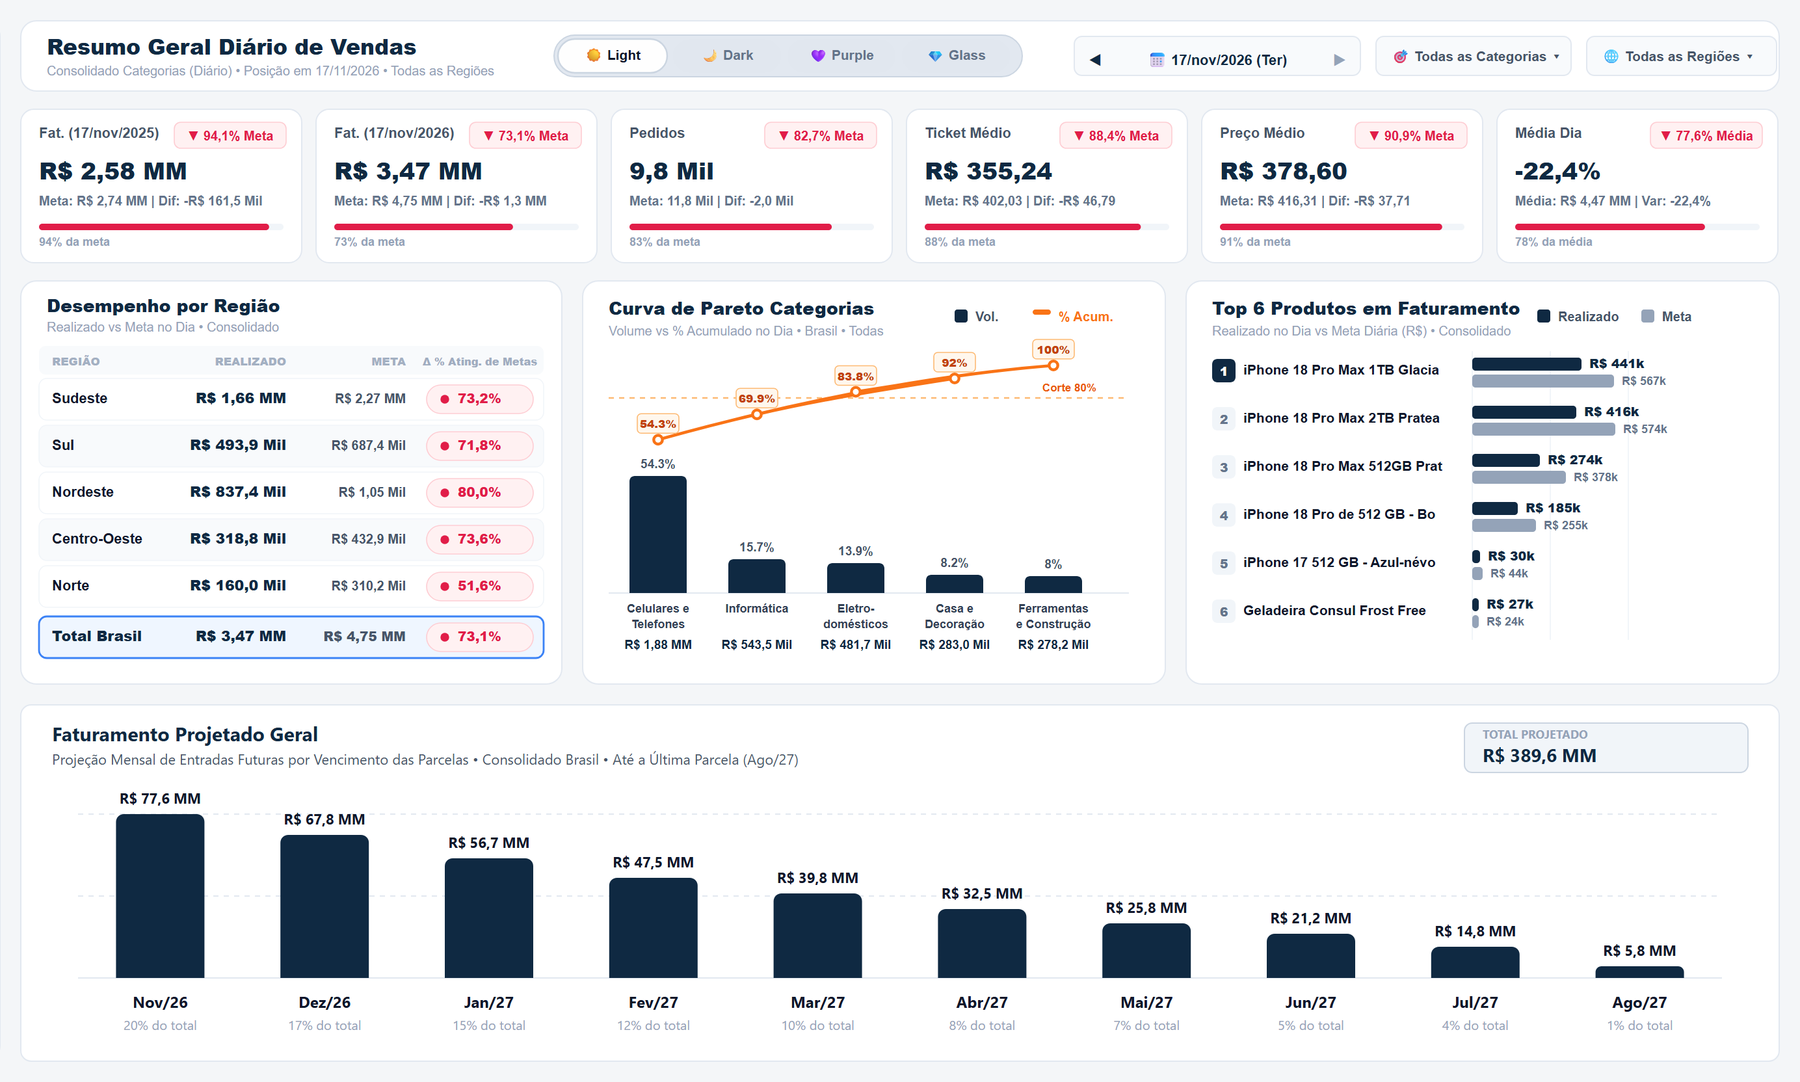
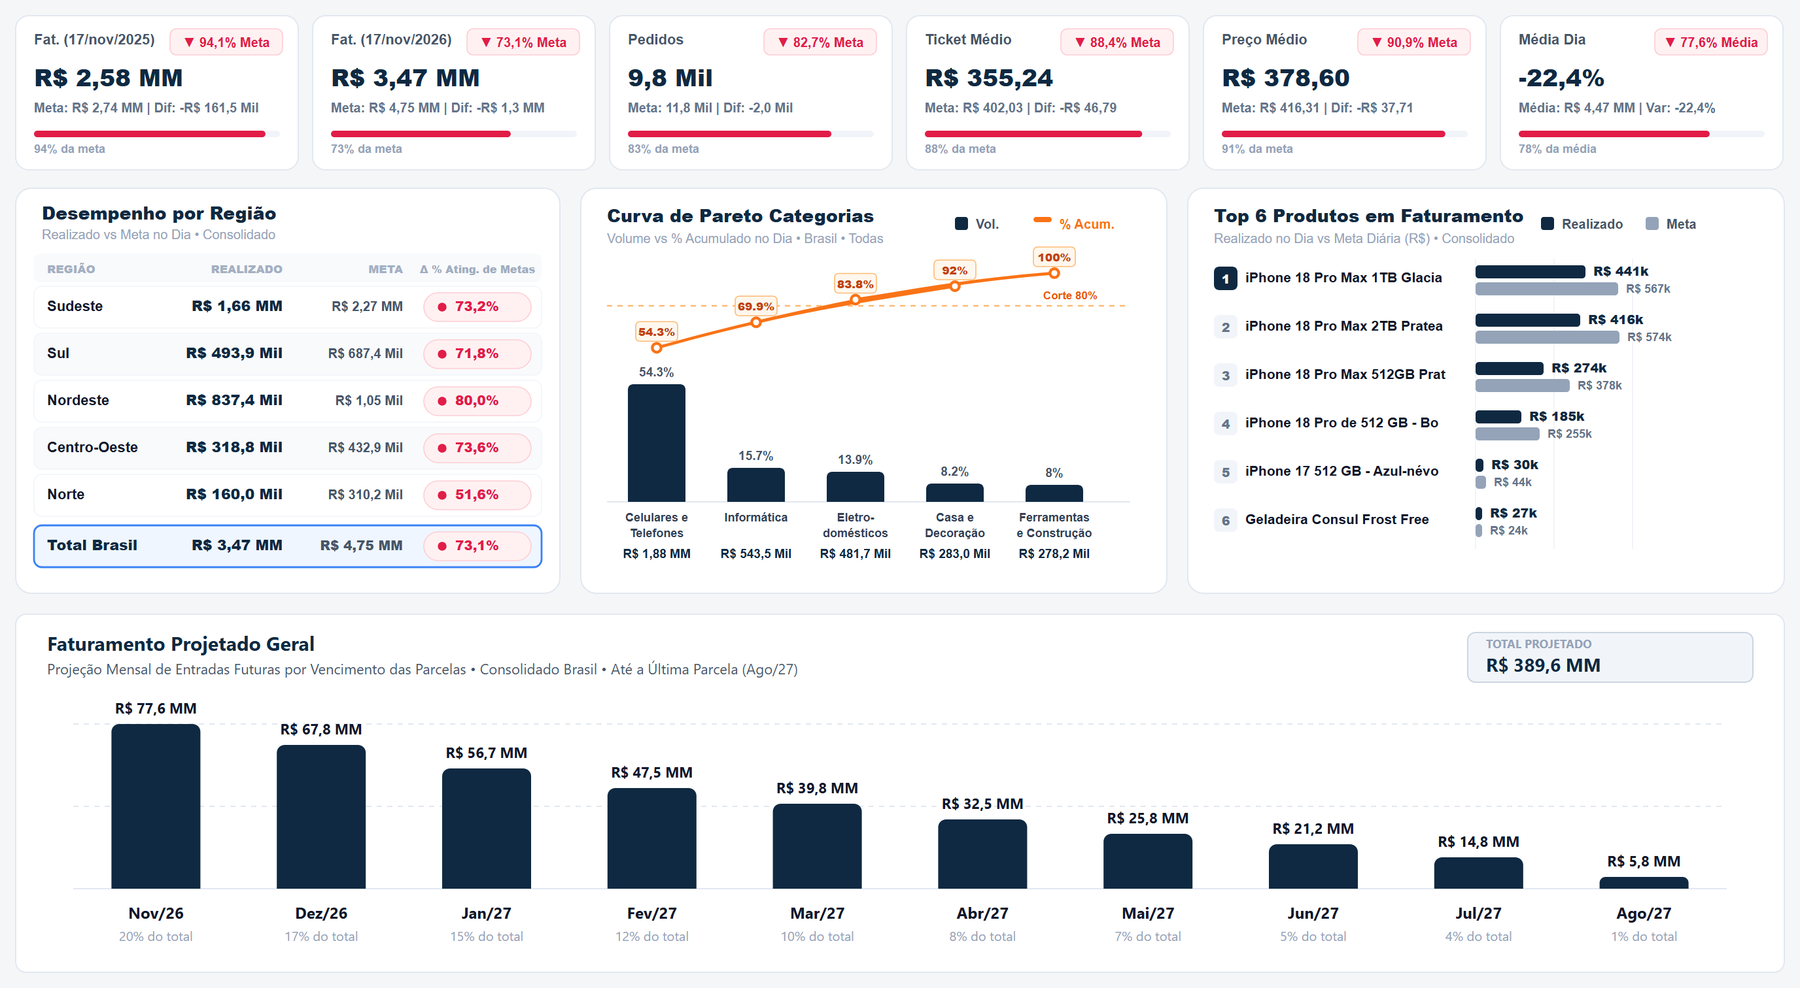
feat(prints): recorte limpo tema Light exclusivo (sem barra superior) e bump versao 3.5.0

diff --git a/app.py b/app.py
@@ -2222,7 +2222,7 @@ def status():
 
     return jsonify({
         "status": "online",
-        "versao": "3.4.0 - Inteligência Temporal Homóloga YTDA e Blindagem Meli",
+        "versao": "3.5.0 - Prints Executivos Light HD Sob Demanda (Diário, MTD, YTDA, Detalhado)",
         "total_registros": total_registros,
         "data_recente": str(data_recente),
         "horario_disponibilizacao": horario_bot,
